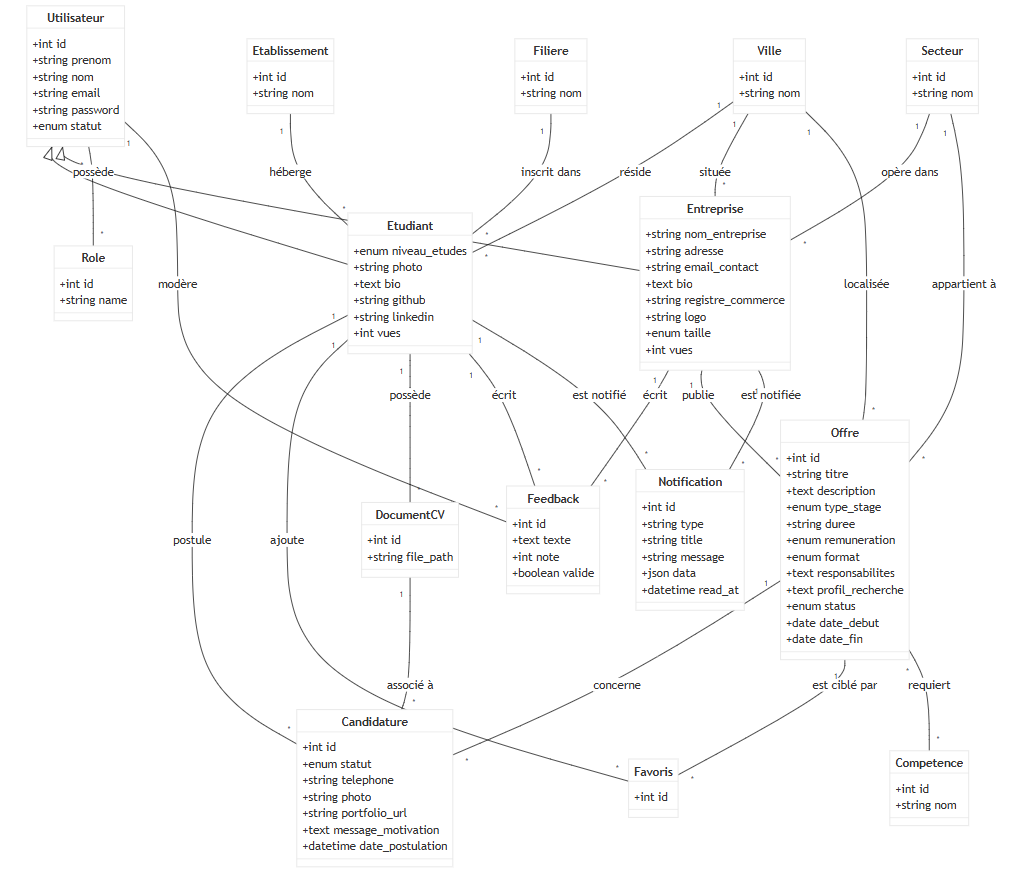
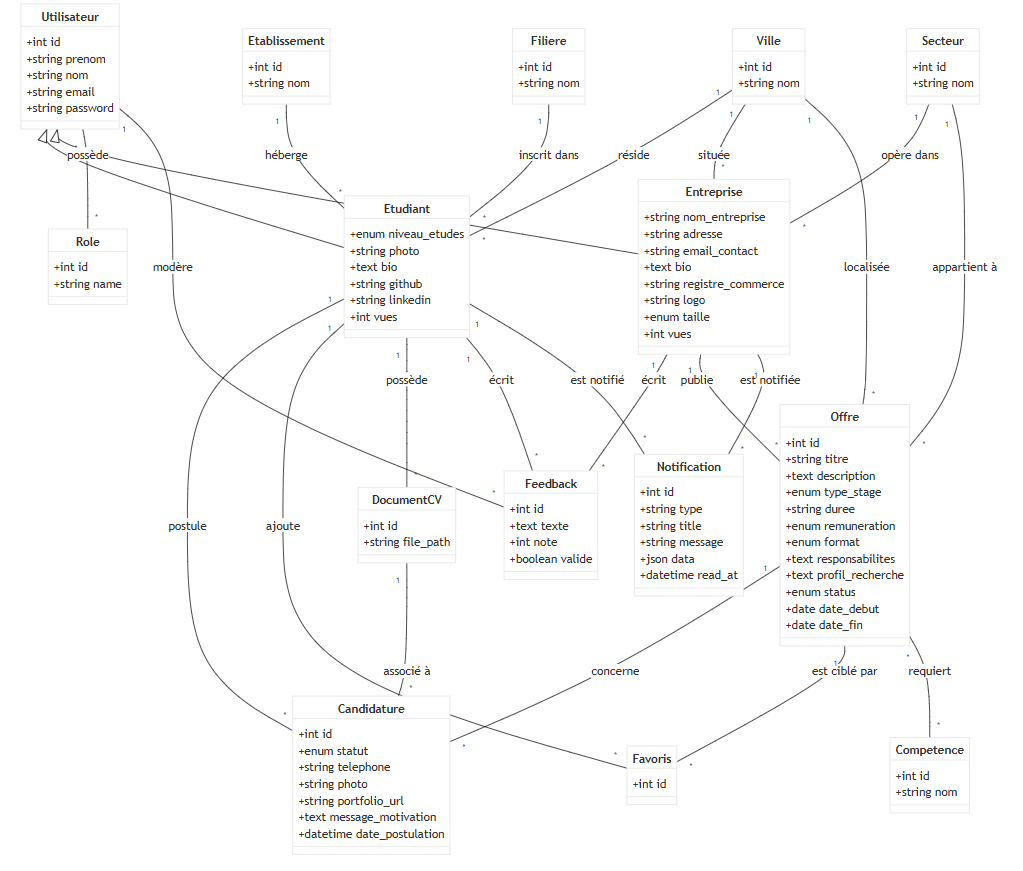
feat: implement admin user management module with filtering and role-based access control

diff --git a/stage_flow/resources/js/components/admin/usersFilter.js b/stage_flow/resources/js/components/admin/usersFilter.js
@@ -1,18 +1,9 @@
 export default (routeIndex = '', initialSearch = '', initialRole = '') => ({
-    init() {
-        this.dispatchFilter();
-    },
     search: initialSearch,
     role: initialRole,
     loading: false,
-    dispatchFilter() {
-        window.dispatchEvent(new CustomEvent('users-filter-changed', {
-            detail: { search: this.search, role: this.role }
-        }));
-    },
     submit() {
         this.loading = true;
-        this.dispatchFilter();
         const params = new URLSearchParams({
             search: this.search,
             role: this.role

diff --git a/stage_flow/app/Services/UtilisateurService.php b/stage_flow/app/Services/UtilisateurService.php
@@ -52,33 +52,7 @@ class UtilisateurService extends BaseService
     }
 
 
-    public function exportUsersToCsv(array $filters = []): void
-    {
-        $users = $this->buildUsersQuery($filters)->get();
 
-        // Add UTF-8 BOM for Microsoft Excel compatibility
-        echo chr(0xEF).chr(0xBB).chr(0xBF);
-
-        $file = fopen('php://output', 'w');
-        
-        fputcsv($file, [
-            'Nom complet',
-            'Email',
-            'Rôle',
-            'Date d\'inscription'
-        ], ';');
-
-        foreach ($users as $user) {
-            fputcsv($file, [
-                $user->prenom . ' ' . $user->nom,
-                $user->email,
-                $user->role === 'moderateur' ? 'Modérateur' : ($user->role === 'etudiant' ? 'Étudiant' : 'Entreprise'),
-                $user->created_at->format('d/m/Y H:i')
-            ], ';');
-        }
-
-        fclose($file);
-    }
 
     public function getUserDetails(int $id)
     {

diff --git a/stage_flow/app/Http/Controllers/Web/Admin/UtilisateurController.php b/stage_flow/app/Http/Controllers/Web/Admin/UtilisateurController.php
@@ -27,22 +27,7 @@ class UtilisateurController extends Controller
         return view('admin.users.index', compact('users'));
     }
 
-    public function export(Request $request)
-    {
-        $headers = [
-            'Content-Type' => 'text/csv; charset=UTF-8',
-            'Content-Disposition' => 'attachment; filename="utilisateurs_' . now()->format('Y-m-d_H-i') . '.csv"',
-            'Pragma' => 'no-cache',
-            'Cache-Control' => 'must-revalidate, post-check=0, pre-check=0',
-            'Expires' => '0'
-        ];
 
-        return response()->stream(function() use ($request) {
-            $this->utilisateurService->exportUsersToCsv(
-                $request->only(['search', 'role'])
-            );
-        }, 200, $headers);
-    }
 
     
     public function show(int $id)

diff --git a/stage_flow/resources/views/admin/users/index.blade.php b/stage_flow/resources/views/admin/users/index.blade.php
@@ -4,22 +4,10 @@
 
 @section('content')
 
-<div class="flex flex-col sm:flex-row sm:items-center sm:justify-between gap-4 mb-8" data-aos="fade-down"
-     x-data="{ search: '', role: '' }"
-     @users-filter-changed.window="search = $event.detail.search; role = $event.detail.role">
+<div class="flex flex-col sm:flex-row sm:items-center sm:justify-between gap-4 mb-8" data-aos="fade-down">
     <div>
         <h1 class="text-3xl font-extrabold text-gray-900 font-heading">Gestion des <span class="text-indigo-600">Utilisateurs</span></h1>
         <p class="text-sm text-gray-500 mt-1">Gérez les accès et les rôles de la plateforme en temps réel.</p>
-    </div>
-    <div>
-        <a :href="'{{ route('admin.users.export') }}?' + new URLSearchParams({
-            search: search,
-            role: role
-        }).toString()" 
-           class="py-2.5 px-4 inline-flex items-center gap-x-2 text-xs font-bold rounded-xl border border-gray-200 bg-white text-gray-700 shadow-sm hover:bg-gray-50 hover:text-emerald-600 transition active:scale-95">
-            <svg class="shrink-0 size-4 text-emerald-600" xmlns="http://www.w3.org/2000/svg" fill="none" viewBox="0 0 24 24" stroke="currentColor" stroke-width="2.5"><path stroke-linecap="round" stroke-linejoin="round" d="M19.5 14.25v-2.625a3.375 3.375 0 0 0-3.375-3.375h-1.5A1.125 1.125 0 0 1 13.5 7.125v-1.5a3.375 3.375 0 0 0-3.375-3.375H8.25m.75 12 3 3m0 0 3-3m-3 3v-6m-1.5-9H5.625c-.621 0-1.125.504-1.125 1.125v17.25c0 .621.504 1.125 1.125 1.125h12.75c.621 0 1.125-.504 1.125-1.125V11.25a9 9 0 0 0-9-9Z" /></svg>
-            Exporter (Excel)
-        </a>
     </div>
 </div>
 

diff --git a/stage_flow/routes/web.php b/stage_flow/routes/web.php
@@ -87,7 +87,6 @@ Route::middleware(['auth', 'role:admin|moderateur'])->prefix('admin')->name('adm
     // Gestion des utilisateurs - lecture seule pour tous (admin + modérateur)
     Route::prefix('users')->name('users.')->group(function () {
         Route::get('', [AdminUser::class, 'index'])->name('index');
-        Route::get('export', [AdminUser::class, 'export'])->name('export');
         Route::get('{id}', [AdminUser::class, 'show'])->name('show');
 
         // Actions réservées à ceux qui ont la permission gerer-utilisateurs (admin seulement)